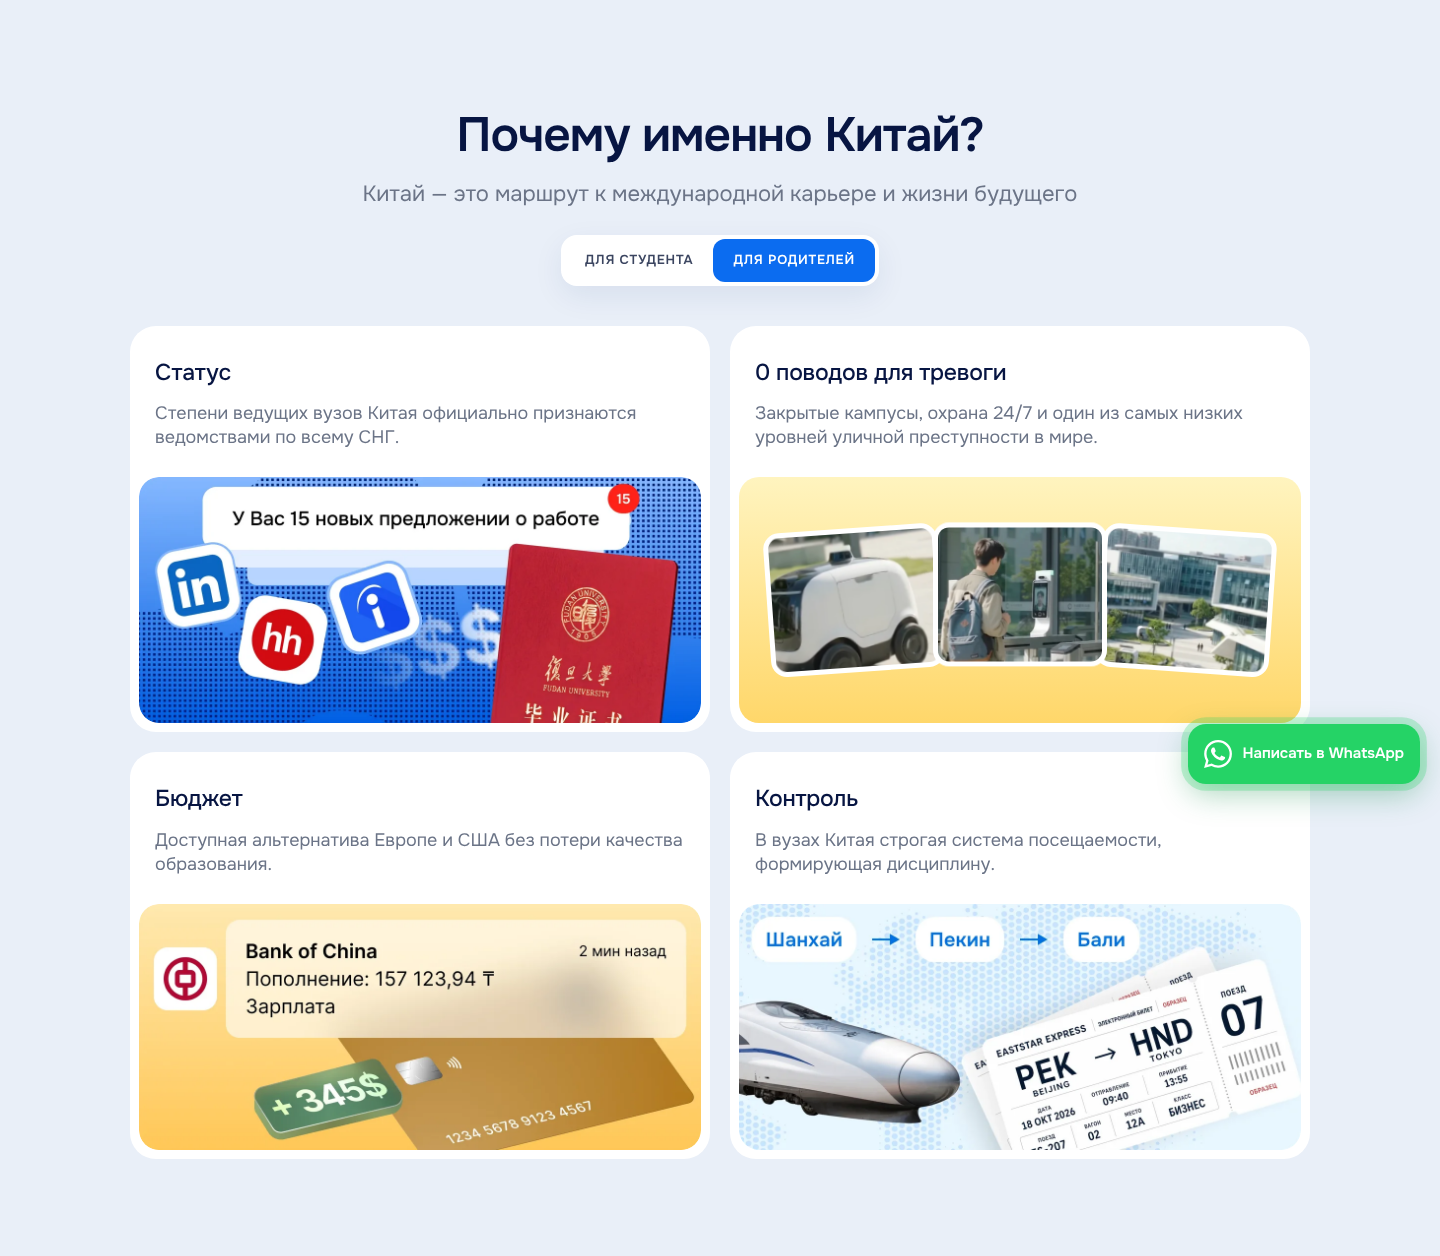
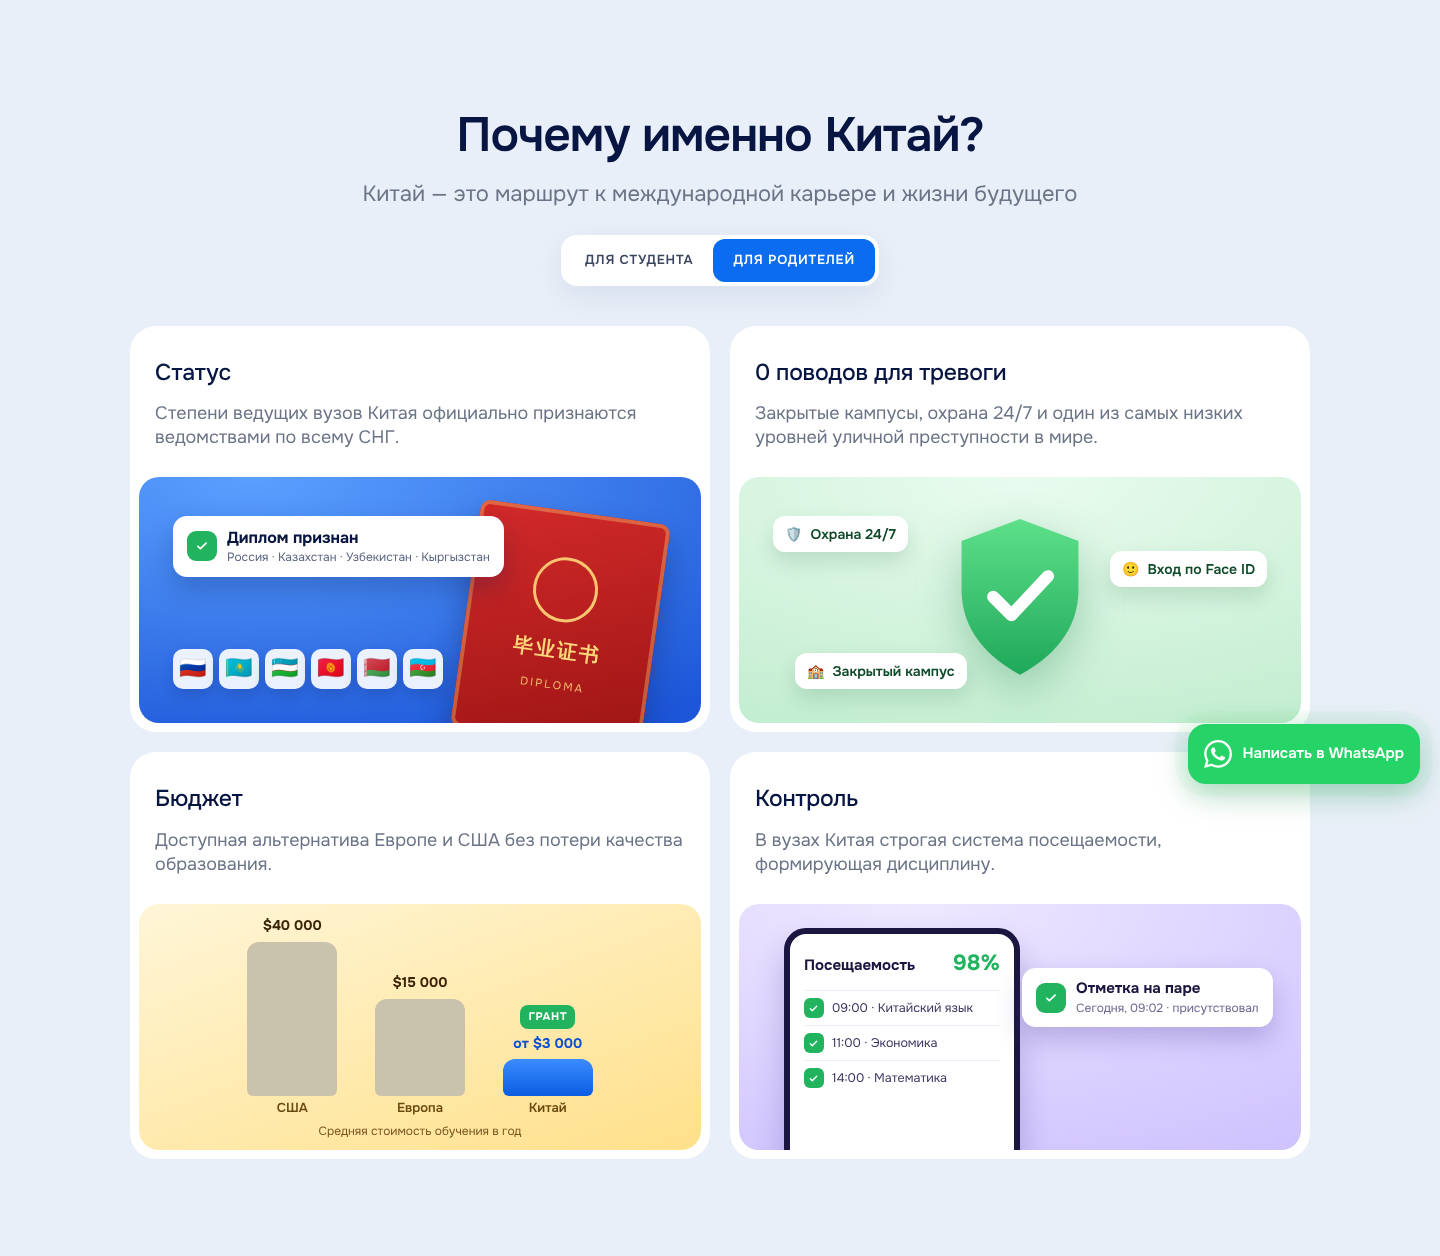
Why China: parent-tab illustrations (status, safety, budget, control) built in HTML/CSS with animations
Claude-Session: https://claude.ai/code/session_01DveQThDXrjAqWsCdBVYsEN

Changed region(s): [[0.0938, 0.3726, 1.0, 0.6521], [0.0938, 0.7142, 0.9062, 0.9315]]

diff --git a/index.html b/index.html
@@ -2351,6 +2351,74 @@ a.uni-card:hover{box-shadow:0 14px 34px rgba(19,52,120,.10)}
 .side.good{background-size:105% auto,auto!important}
 .side.bad{background-size:105% auto!important}
 @media (max-width:680px){.side.good{background-size:180% auto,auto!important}.side.bad{background-size:180% auto!important}}
+
+/* ===== «Для родителей»: свои иллюстрации ===== */
+.why-card{position:relative}
+.pv{display:none;position:relative;margin-top:auto;aspect-ratio:1710/750;border-radius:20px;overflow:hidden}
+.why-grid.parents .why-card > img,.why-grid.parents .why-card > .campus{display:none}
+.why-grid.parents .pv{display:block;animation:pvIn .5s cubic-bezier(.2,.7,.2,1)}
+@keyframes pvIn{from{opacity:0;transform:scale(.97)}to{opacity:1;transform:none}}
+.pv-ok{flex:none;width:30px;height:30px;border-radius:9px;background:#22b35e;display:grid;place-items:center}
+/* 1 статус */
+.pv1{background:radial-gradient(120% 120% at 20% 0%,#5aa0ff,#1d56d8)}
+.pv-dip{position:absolute;right:8%;top:14%;width:34%;aspect-ratio:3/3.6;border-radius:10px;background:linear-gradient(160deg,#d32a2a,#9c1414);box-shadow:0 18px 30px rgba(10,20,70,.35),inset 0 0 0 4px rgba(255,214,120,.35);transform:rotate(8deg);display:flex;flex-direction:column;align-items:center;justify-content:center;gap:6%;color:#ffd77a}
+.pv-emb{width:34%;aspect-ratio:1;border-radius:50%;border:3px solid #ffd77a;opacity:.9}
+.pv-dip b{font-size:clamp(14px,1.5vw,20px);letter-spacing:.1em}.pv-dip i{font-style:normal;font-size:clamp(9px,.8vw,11px);letter-spacing:.2em;opacity:.85}
+.pv-note{position:absolute;left:6%;top:16%;display:flex;gap:10px;align-items:center;background:#fff;border-radius:14px;padding:10px 14px;box-shadow:0 12px 26px rgba(10,30,90,.25);max-width:62%}
+.pv-note b{display:block;font-size:clamp(13px,1.2vw,16px);color:#071542}.pv-note small{display:block;font-size:clamp(10px,.85vw,12px);color:#5a6580}
+.pv-flags{position:absolute;left:6%;bottom:14%;display:flex;gap:6px}
+.pv-flags span{width:clamp(30px,3vw,40px);aspect-ratio:1;border-radius:10px;background:rgba(255,255,255,.9);display:grid;place-items:center;font-size:clamp(16px,1.6vw,22px);box-shadow:0 6px 14px rgba(10,30,90,.2)}
+/* 2 безопасность */
+.pv2{background:radial-gradient(120% 120% at 50% 0%,#e9fbef,#bfeccd)}
+.pv-shield{position:absolute;left:50%;top:50%;width:26%;transform:translate(-50%,-50%);filter:drop-shadow(0 16px 22px rgba(20,120,60,.3))}
+.pv-chip{position:absolute;display:flex;align-items:center;gap:8px;background:#fff;border-radius:12px;padding:8px 12px;font-size:clamp(11px,1vw,14px);font-weight:600;color:#0d4a28;box-shadow:0 10px 20px rgba(20,90,50,.15);white-space:nowrap}
+.pv-chip.c1{left:6%;top:16%}.pv-chip.c2{right:6%;top:30%}.pv-chip.c3{left:10%;bottom:14%}
+/* 3 бюджет */
+.pv3{background:linear-gradient(160deg,#fff6d8,#ffe08a)}
+.pv-bars{position:absolute;left:8%;right:8%;top:10%;bottom:22%;display:flex;align-items:flex-end;justify-content:center;gap:8%}
+.bar{position:relative;flex:1;max-width:90px;height:100%;display:flex;flex-direction:column;justify-content:flex-end;align-items:center}
+.bar i{display:block;width:100%;height:var(--h);border-radius:12px 12px 6px 6px;background:#c9c2ad;transform-origin:bottom}
+.bar.b3 i{background:linear-gradient(180deg,#3b8cff,#0b5ce0)}
+.bar b{position:absolute;bottom:calc(var(--bh,0px) + 4px);font-size:clamp(11px,1vw,14px);color:#3a2405}
+.bar span{position:absolute;bottom:-22px;font-size:clamp(11px,1vw,13px);font-weight:600;color:#6b4a10}
+.bar.b1 b{bottom:calc(92% + 6px)}.bar.b2 b{bottom:calc(58% + 6px)}.bar.b3 b{bottom:calc(22% + 6px);color:#0b4fd6}
+.bar em{position:absolute;bottom:calc(22% + 30px);font-style:normal;font-size:11px;font-weight:700;letter-spacing:.06em;text-transform:uppercase;background:#22b35e;color:#fff;padding:4px 8px;border-radius:8px}
+.pv-cap{position:absolute;left:0;right:0;bottom:4%;text-align:center;font-size:clamp(10px,.85vw,12px);color:#7a5520}
+.why-grid.parents .bar i{animation:barUp .9s cubic-bezier(.2,.7,.2,1) both}
+.why-grid.parents .bar.b2 i{animation-delay:.12s}.why-grid.parents .bar.b3 i{animation-delay:.24s}
+@keyframes barUp{from{transform:scaleY(0)}to{transform:scaleY(1)}}
+/* 4 контроль */
+.pv4{background:radial-gradient(120% 120% at 30% 0%,#eee8ff,#cfc2ff)}
+.pv-phone{position:absolute;left:8%;top:10%;bottom:-20%;width:42%;background:#fff;border-radius:22px;padding:14px;box-shadow:0 18px 30px rgba(60,40,140,.25);border:6px solid #1b1640}
+.pv-ph-top{display:flex;justify-content:space-between;align-items:baseline;margin-bottom:10px}
+.pv-ph-top b{font-size:clamp(12px,1.1vw,15px);color:#1b1640}.pv-ph-top span{font-size:clamp(16px,1.6vw,22px);font-weight:700;color:#22b35e}
+.pv-row{display:flex;align-items:center;gap:8px;font-size:clamp(10px,.9vw,12.5px);color:#3a3560;padding:7px 0;border-top:1px solid #f0edf8}
+.pv-row i{width:20px;height:20px;border-radius:6px;background:#22b35e;display:grid;place-items:center;flex:none}
+.pv-row i svg{width:11px;height:11px}
+.pv-push{position:absolute;right:5%;top:26%;display:flex;gap:10px;align-items:center;background:#fff;border-radius:14px;padding:10px 14px;box-shadow:0 12px 26px rgba(60,40,140,.25);max-width:52%}
+.pv-push b{display:block;font-size:clamp(12px,1.1vw,15px);color:#1b1640}.pv-push small{display:block;font-size:clamp(10px,.85vw,12px);color:#6b6590}
+.why-grid.parents .pv-note,.why-grid.parents .pv-push{animation:pushIn .7s cubic-bezier(.3,1.4,.5,1) .25s both}
+.why-grid.parents .pv-chip{animation:pushIn .6s cubic-bezier(.3,1.4,.5,1) both}
+.why-grid.parents .pv-chip.c2{animation-delay:.15s}.why-grid.parents .pv-chip.c3{animation-delay:.3s}
+@keyframes pushIn{from{opacity:0;transform:translateY(-14px) scale(.95)}to{opacity:1;transform:none}}
+@media (max-width:680px){.pv-note,.pv-push{padding:8px 10px;gap:8px}.pv-ok{width:24px;height:24px}.pv-phone{padding:10px;border-width:4px;border-radius:16px}.pv-chip{padding:6px 9px}}
+@media (prefers-reduced-motion:reduce){.pv,.bar i,.pv-note,.pv-push,.pv-chip{animation:none!important}}
+
+@media (max-width:680px){
+  .pv{aspect-ratio:4/3}
+  .pv-dip{width:38%;right:6%;top:30%}
+  .pv-note{top:8%;left:5%;max-width:80%}
+  .pv-flags{bottom:8%;left:5%;gap:4px}.pv-flags span{width:30px;font-size:16px;border-radius:8px}
+  .pv-shield{width:34%}
+  .pv-chip.c1{top:8%}.pv-chip.c2{top:auto;bottom:32%;right:4%}.pv-chip.c3{bottom:8%}
+  .pv-bars{top:14%;bottom:24%}
+  .bar span{bottom:-20px}
+  .pv-cap{bottom:3%}
+  .pv-phone{width:54%;left:5%;top:8%}
+  .pv-ph-top{flex-direction:column;align-items:flex-start;gap:2px}
+  .pv-row{font-size:11px;gap:6px}
+  .pv-push{right:4%;top:auto;bottom:10%;max-width:58%}
+}
 </style>
 </head>
 <body>
@@ -2430,7 +2498,11 @@ a.uni-card:hover{box-shadow:0 14px 34px rgba(19,52,120,.10)}
         <h3 data-s="Диплом, за которым охотятся работодатели" data-p="Статус">Диплом, за которым охотятся работодатели</h3>
         <p data-s="Доступ к практике и стажировкам в глобальных IT- и технологических гигантах." data-p="Степени ведущих вузов Китая официально признаются ведомствами по всему СНГ.">Доступ к практике и стажировкам в глобальных IT- и технологических гигантах.</p>
         <img loading="lazy" decoding="async" src="assets/opt/why1.webp" alt="">
-      </article>
+      <div class="pv pv1" aria-hidden="true">
+  <div class="pv-dip"><span class="pv-emb"></span><b>毕业证书</b><i>DIPLOMA</i></div>
+  <div class="pv-note"><span class="pv-ok"><svg viewBox="0 0 24 24" width="14" height="14"><path d="M5 12.5l4.2 4.2L19 7" fill="none" stroke="#fff" stroke-width="3" stroke-linecap="round" stroke-linejoin="round"/></svg></span><div><b>Диплом признан</b><small>Россия · Казахстан · Узбекистан · Кыргызстан</small></div></div>
+  <div class="pv-flags"><span>🇷🇺</span><span>🇰🇿</span><span>🇺🇿</span><span>🇰🇬</span><span>🇧🇾</span><span>🇦🇿</span></div>
+</div></article>
       <article class="why-card reveal">
         <h3 data-s="Кампусы как из фильмов про будущее" data-p="0 поводов для тревоги">Кампусы как из фильмов про будущее</h3>
         <p data-s="Роботы-доставщики, пропускная система по биометрии, огромные лаборатории и спорткомплексы." data-p="Закрытые кампусы, охрана 24/7 и один из самых низких уровней уличной преступности в мире.">Роботы-доставщики, пропускная система по биометрии, огромные лаборатории и спорткомплексы.</p>
@@ -2439,17 +2511,37 @@ a.uni-card:hover{box-shadow:0 14px 34px rgba(19,52,120,.10)}
           <figure class="cp cp2"><img loading="lazy" decoding="async" src="assets/opt/campus-c2.webp" alt="Вход по биометрии"></figure>
           <figure class="cp cp3"><img loading="lazy" decoding="async" src="assets/opt/campus-c3.webp" alt="Современный кампус"></figure>
         </div>
-      </article>
+      <div class="pv pv2" aria-hidden="true">
+  <div class="pv-shield"><svg viewBox="0 0 120 140"><defs><linearGradient id="shg" x1="0" y1="0" x2="0" y2="1"><stop offset="0" stop-color="#5ee08a"/><stop offset="1" stop-color="#1fa85a"/></linearGradient></defs><path d="M60 6l48 18v40c0 34-22 56-48 70C34 120 12 98 12 64V24z" fill="url(#shg)"/><path d="M38 70l15 15 30-32" fill="none" stroke="#fff" stroke-width="10" stroke-linecap="round" stroke-linejoin="round"/></svg></div>
+  <div class="pv-chip c1"><span>🛡</span>Охрана 24/7</div>
+  <div class="pv-chip c2"><span>🙂</span>Вход по Face ID</div>
+  <div class="pv-chip c3"><span>🏫</span>Закрытый кампус</div>
+</div></article>
       <article class="why-card reveal">
         <h3 data-s="Деньги на жизнь и путешествия" data-p="Бюджет">Деньги на жизнь и путешествия</h3>
         <p data-s="Грант покрывает не только учёбу и современное общежитие, но и даёт ежемесячную стипендию на карманные расходы." data-p="Доступная альтернатива Европе и США без потери качества образования.">Грант покрывает не только учёбу и современное общежитие, но и даёт ежемесячную стипендию на карманные расходы.</p>
         <img loading="lazy" decoding="async" src="assets/opt/why3.webp" alt="">
-      </article>
+      <div class="pv pv3" aria-hidden="true">
+  <div class="pv-bars">
+    <div class="bar b1"><i style="--h:92%"></i><b>$40 000</b><span>США</span></div>
+    <div class="bar b2"><i style="--h:58%"></i><b>$15 000</b><span>Европа</span></div>
+    <div class="bar b3"><em>Грант</em><i style="--h:22%"></i><b>от $3 000</b><span>Китай</span></div>
+  </div>
+  <small class="pv-cap">Средняя стоимость обучения в год</small>
+</div></article>
       <article class="why-card reveal">
         <h3 data-s="Путешествия по всей Азии" data-p="Контроль">Путешествия по всей Азии</h3>
         <p data-s="На скоростных поездах можно легко объездить всю страну, а на каникулах дешево слетать в соседние азиатские страны." data-p="В вузах Китая строгая система посещаемости, формирующая дисциплину.">На скоростных поездах можно легко объездить всю страну, а на каникулах дешево слетать в соседние азиатские страны.</p>
         <img loading="lazy" decoding="async" src="assets/opt/why4.webp" alt="">
-      </article>
+      <div class="pv pv4" aria-hidden="true">
+  <div class="pv-phone">
+    <div class="pv-ph-top"><b>Посещаемость</b><span>98%</span></div>
+    <div class="pv-row"><i><svg viewBox="0 0 24 24" width="14" height="14"><path d="M5 12.5l4.2 4.2L19 7" fill="none" stroke="#fff" stroke-width="3" stroke-linecap="round" stroke-linejoin="round"/></svg></i>09:00 · Китайский язык</div>
+    <div class="pv-row"><i><svg viewBox="0 0 24 24" width="14" height="14"><path d="M5 12.5l4.2 4.2L19 7" fill="none" stroke="#fff" stroke-width="3" stroke-linecap="round" stroke-linejoin="round"/></svg></i>11:00 · Экономика</div>
+    <div class="pv-row"><i><svg viewBox="0 0 24 24" width="14" height="14"><path d="M5 12.5l4.2 4.2L19 7" fill="none" stroke="#fff" stroke-width="3" stroke-linecap="round" stroke-linejoin="round"/></svg></i>14:00 · Математика</div>
+  </div>
+  <div class="pv-push"><span class="pv-ok"><svg viewBox="0 0 24 24" width="14" height="14"><path d="M5 12.5l4.2 4.2L19 7" fill="none" stroke="#fff" stroke-width="3" stroke-linecap="round" stroke-linejoin="round"/></svg></span><div><b>Отметка на паре</b><small>Сегодня, 09:02 · присутствовал</small></div></div>
+</div></article>
     </div>
   </div>
 </div></section>
@@ -3005,7 +3097,7 @@ $$('.menu a').forEach(a=>a.addEventListener('click',()=>nav.classList.remove('op
 $$('.lang button').forEach(b=>b.onclick=()=>{$$('.lang button').forEach(x=>x.classList.toggle('on',x===b))});
 // вкладки «Почему Китай»
 $$('.tabs button').forEach(b=>b.onclick=()=>{
-  $$('.tabs button').forEach(x=>x.classList.toggle('on',x===b));
+  $$('.tabs button').forEach(x=>x.classList.toggle('on',x===b));const wg=$('.why-grid');wg&&wg.classList.toggle('parents',b.dataset.tab==='p');
   $$('.why-card [data-s]').forEach(el=>{el.classList.add('fade');setTimeout(()=>{el.textContent=el.dataset[b.dataset.tab];el.classList.remove('fade')},220)});
 });
 // появление при скролле
